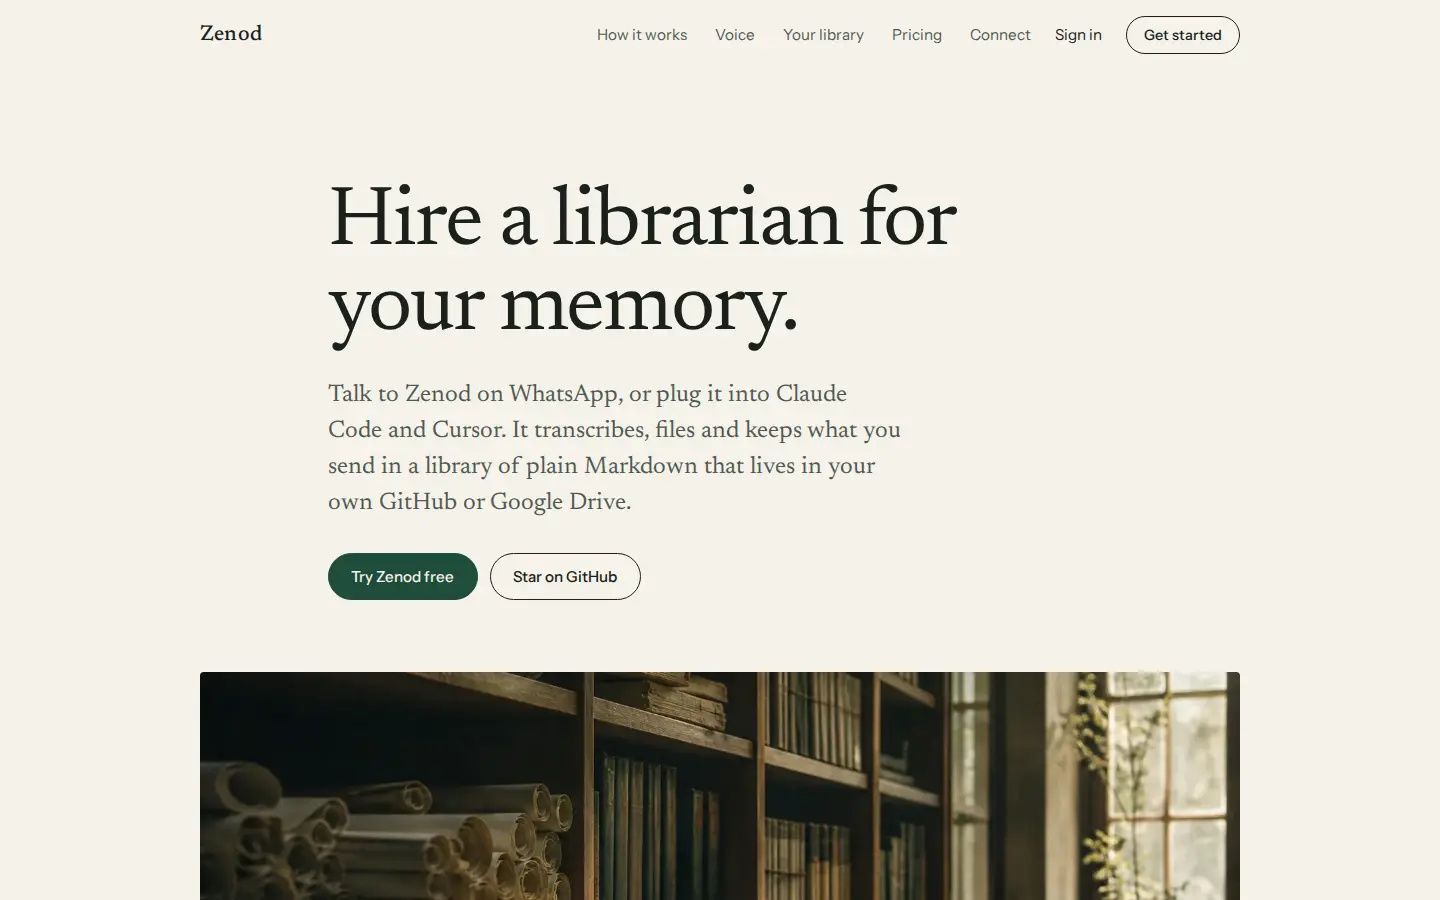
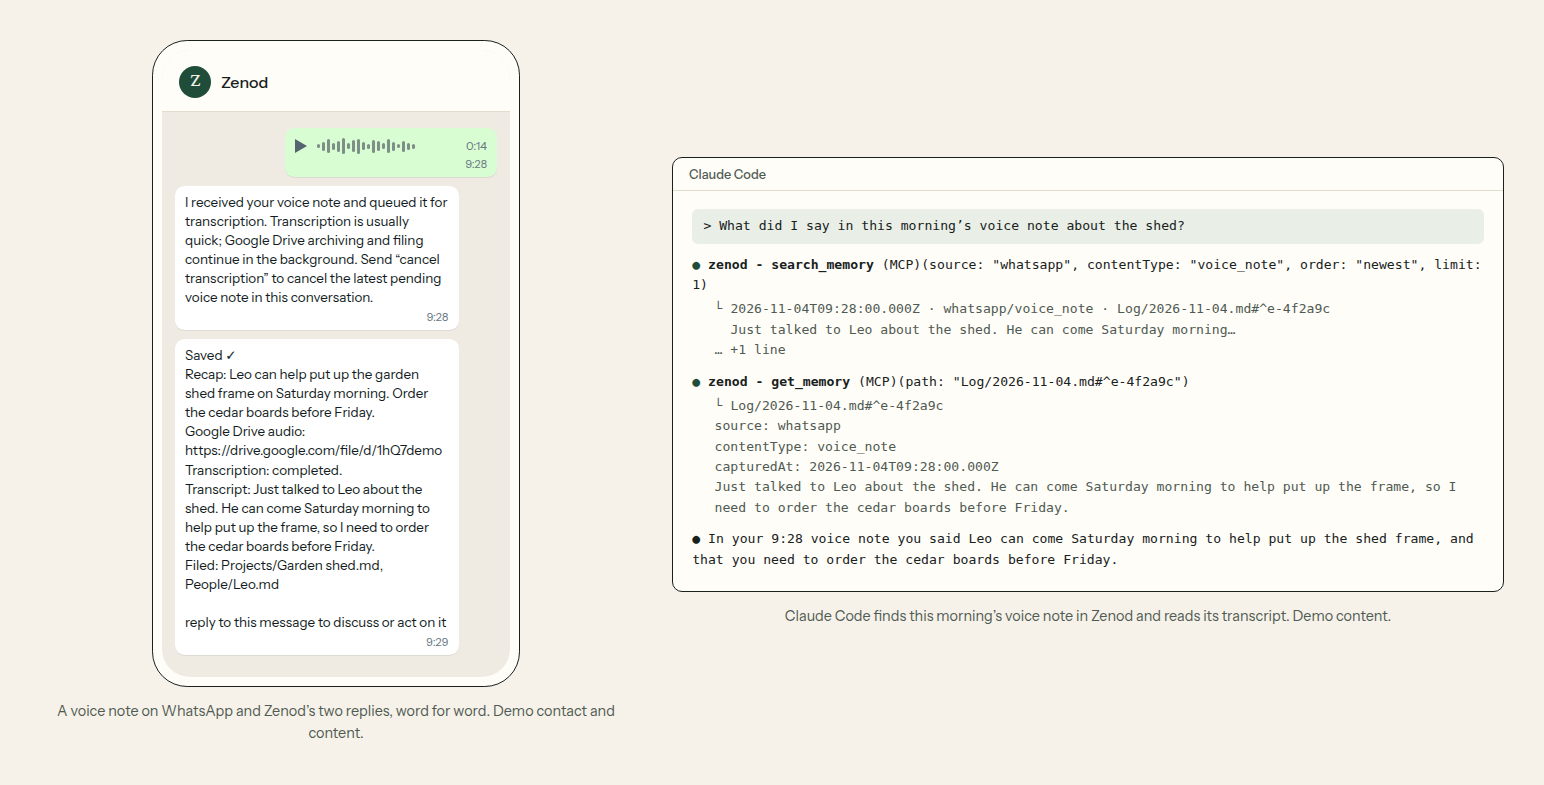
ZAL-A6: iteration 2 live (43d63a1), evidence and card; A6 back to review
Product visuals on zenod.dev per Jordi's relaunch: WhatsApp voice note with
Zenod's real replies, Claude Code retrieving a transcript and saving a
learning, real console screens. PR #1495, health sha verified 11:25Z.

Run: run_107e6293-52ad-4b72-96cd-cc43723ab6e1

diff --git a/docs/EPIC-ZENOD-ALPHA-LAUNCH.md b/docs/EPIC-ZENOD-ALPHA-LAUNCH.md
@@ -41,14 +41,14 @@ Goal sentence: A real user signs up, uses Zenod over WhatsApp, and is metered an
 Status: active
 Phase: A0 re-check done and proposed done 2026-10-25 (worker run_f010b4a9); A1–A5 not started
 Last verified: 2026-10-25
-Last attempted: 2026-11-04 ZAL-A6 Paper landing shipped by worker run_c49da4e3 (#1494, a69a78d live 10:12Z) and in review ; 2026-11-03 roll-up from children — [EPIC-7](EPIC-7-REAL-USER-TEST.md) (active): everything agents can build for the 5-tester test is live (checkout, caps, tester codes, wording, tester-watch, rotated keys); the rehearsal waits on one Google sign-in (E7-A15) and the leaked-key rolls on one key page (E7-A14). [EPIC-6](EPIC-6-HEALTH-DASHBOARD.md) (active): S1 inventory in review since 2026-10-25; S2–S6 wait for Jordi to accept S1. A0 re-check proposed done 2026-10-25; A1 voice test and A5 live billing not started
+Last attempted: 2026-11-04 ZAL-A6 iteration 2 (product visuals) shipped by worker run_107e6293 (#1495, 43d63a1 live 11:25Z) and in review; before, iteration 1 Paper landing (#1494, a69a78d) ; 2026-11-03 roll-up from children — [EPIC-7](EPIC-7-REAL-USER-TEST.md) (active): everything agents can build for the 5-tester test is live (checkout, caps, tester codes, wording, tester-watch, rotated keys); the rehearsal waits on one Google sign-in (E7-A15) and the leaked-key rolls on one key page (E7-A14). [EPIC-6](EPIC-6-HEALTH-DASHBOARD.md) (active): S1 inventory in review since 2026-10-25; S2–S6 wait for Jordi to accept S1. A0 re-check proposed done 2026-10-25; A1 voice test and A5 live billing not started
 Result: production is up (health ok on 5aa4fe4, 2026-11-03) and ready for testers apart from the rehearsal; no tester invited yet; live billing never performed
 Production 2026-10-25: `cloud.zenod.dev/api/health` status ok, sha `ae3e77a3b794a44f78b8f64323f67da28bd4d983`; Dokploy `zenod-mt` on `ghcr.io/zenod-ai/zenod:sha-ae3e77a`; production-readiness still lists 5 advisory failures (Stripe webhook/portal/live billing journey, backup restore, Drive acceptance), all A5 or later. Public Google registration and paid checkout opened 2026-09-16 on `83c2752` ([receipt](evidence/public-opening-2026-09-16/README.md)); live billing and Drive acceptance never performed.
 Finding 2026-10-25 (resolved): the `deploy` job's Dokploy 404 was not a moved app id: `dokploy.polyqu.com` was closed on 2026-10-22 (Dokploy is Tailscale-only), so GitHub runners cannot reach it. The VPS1 deploy poller (infra-vps EPIC-10-A9) already rolls `zenod-mt` after `publish`; #1435 turns `deploy` into a health-sha check and the two `DOKPLOY_*` GitHub secrets were removed. `scripts/deploy-fleet.sh` is manual-only and refuses on Dokploy v0.30 (`project.all` no longer returns images); not needed for the push path.
 Waiting on: Jordi, through EPIC-7: E7-A15 (one sign-in) and E7-A14 (key page); EPIC-6 waits on his S1 review
-Waiting on (ZAL-A6-A1): answered 2026-11-04 ; Jordi relaunched A6 2026-11-04 asking for clean product visuals (settings, WhatsApp voice note and reply, Claude Code retrieving a transcript and writing a learning) ; worker run_107e6293 building iteration 2 on zenod.dev
+Waiting on (ZAL-A6-A1): answered 2026-11-04 ; Jordi relaunched A6 2026-11-04 asking for clean product visuals ; iteration 2 live on https://zenod.dev/ at 43d63a1 ([evidence](evidence/zal-a6-2026-11-04.md)), A6 in review awaiting Jordi's verdict on its card
 Next action: EPIC-7 T7 rehearsal once Jordi signs in, then T8 go/no-go and the five invites
-Verified at: 2026-11-04 zenod.dev 200 with the new Paper page, A6 card fields checked against the gate ; 2026-11-03 child Current States read; live health 5aa4fe4
+Verified at: 2026-11-04T11:25Z health sha 43d63a1, zenod.dev serves the product visuals, A6 card fields checked against the gate ; 2026-11-03 child Current States read; live health 5aa4fe4
 
 ## Waiting on
 
@@ -64,7 +64,7 @@ Verified at: 2026-11-04 zenod.dev 200 with the new Paper page, A6 card fields ch
 | A3 | Ticket worker | - | ZAL-A3 · Free-pass code with a capped allowance | moved | - | - | - | Moved to [EPIC-7](EPIC-7-REAL-USER-TEST.md) T4 on 2026-10-27. | - | 2026-10-27 | see EPIC-7 |
 | A4 | Recruiter (zenod-social) | - | ZAL-A4 · Recruit test users | moved | - | - | - | First wave of 5 moved to [EPIC-7](EPIC-7-REAL-USER-TEST.md) T9 on 2026-10-27; later waves toward DOD-1 come after it. | - | 2026-10-27 | see EPIC-7 |
 | A5 | Operator | Jordi + worker | ZAL-A5 · Stripe live: business verification + one live €9 payment | draft | A0 | - | - | Stripe business profile verified; one live €9 payment end to end (DOD-2) on price `price_1U8jip80yG7aohEW6tZnFgZq`. | Price approved 2026-08-26 (history) | 2026-10-24 | Ask Jordi for the business verification when next. |
-| A6 | Ticket worker | run_107e6293-52ad-4b72-96cd-cc43723ab6e1 — claimed 2026-11-04T10:25Z, lease until 2026-11-04T12:25Z | ZAL-A6 · Cleaner landing: parallel beta of zenod.dev | active (iteration 2, relaunched by Jordi 2026-11-04: great first step, but I want screenshots about the ux for settings etc, and examples showing whatsapp contact sending voicenote and zenod response to it, and screenshot of claude code making a call to zenod to retrieve a voicenote transcript, and code making a zenod call to write a new learning - S…) | - | [#1494](https://github.com/zenod-ai/zenod/pull/1494) merged a69a78d (beta 74977f7, docs only) | `main` | Beta landing on a temporary tailnet link beside the live `apps/site` (untouched): fewer columns, larger lighter diagrams, generated imagery, human copy; 3 directions + low-hanging-fruit list; Jordi picks before `apps/site` changes. | 2026-11-04: Paper landing live on https://zenod.dev/ at a69a78d (health sha verified 10:12Z); [evidence](evidence/zal-a6-2026-11-04.md), [card](cards/A6.md). Before: 2026-11-03 directions A/B/C at http://vps3.taild81fbb.ts.net:8741/ ; [diagrams](landing-beta/DIAGRAMS.md); [list](landing-beta/LOW-HANGING-FRUIT.md) | 2026-11-04 | followups: start Restyle /pricing and /connect in Paper — they keep the dark v5 look, so the site reads as two styles; confirm: yes — Jordi judges the live page against his brief himself |
+| A6 | Ticket worker | run_107e6293 (it.2; it.1 run_c49da4e3) | ZAL-A6 · Cleaner landing: parallel beta of zenod.dev | review | - | [#1495](https://github.com/zenod-ai/zenod/pull/1495) merged 43d63a1 (it.1 [#1494](https://github.com/zenod-ai/zenod/pull/1494) a69a78d; beta 74977f7, docs only) | `main` | Beta landing on a temporary tailnet link beside the live `apps/site` (untouched): fewer columns, larger lighter diagrams, generated imagery, human copy; 3 directions + low-hanging-fruit list; Jordi picks before `apps/site` changes. | 2026-11-04 it.2: product visuals live on https://zenod.dev/ at 43d63a1 (health sha verified 11:25Z): WhatsApp voice note with the real replies, Claude Code retrieving a transcript and saving a learning, real console screens; [evidence](evidence/zal-a6-2026-11-04.md), [card](cards/A6.md). Before: it.1 Paper landing a69a78d; 2026-11-03 directions A/B/C at http://vps3.taild81fbb.ts.net:8741/ | 2026-11-04 | followups: start Restyle /pricing and /connect in Paper — they keep the dark v5 look, so the site reads as two styles; confirm: yes — Jordi judges the live product pictures against his relaunch brief himself |
 
 Superseded from the history board: ZAL-4 #1061 (production gate) → A0/A5; ZAL-5 #1062 (stranger journey) → A0 + DOD-2; ZAL-6 #1063 (invitation draft) → A4 via zenod-social.
 

diff --git a/docs/evidence/zal-a6-2026-11-04.md b/docs/evidence/zal-a6-2026-11-04.md
@@ -35,3 +35,39 @@ No claim that questions can be asked over WhatsApp (root L-6: chat only captures
 ## Follow-ups
 - Start: restyle `/pricing` and `/connect` in Paper so the site reads as one (they keep the dark v5 look today).
 - Dropped: `og.jpg` still the old dark art (nice-to-have; nothing blocked).
+
+## Iteration 2 — product visuals (2026-11-04, run `run_107e6293-52ad-4b72-96cd-cc43723ab6e1`)
+
+Jordi's relaunch, verbatim: "great first step, but I want screenshots about the ux for settings etc, and examples showing whatsapp contact sending voicenote and zenod response to it, and screenshot of claude code making a call to zenod to retrieve a voicenote transcript, and code making a zenod call to write a new learning - SHOW THE PRODUCT SIMPLE mockup visuals - CLEAN"
+
+### What shipped
+- **WhatsApp voice note** (`#voice`, replaces the voice diagram): a contact sends a 0:14 voice note; Zenod's acknowledgement and its later filing receipt, word for word.
+- **Code agent writes a learning** (new `#desk` section "And from your editor."): Claude Code calls `store_memory`, gets the queued-job text, then `get_task_result` returns the receipt.
+- **Claude Code retrieves a voice-note transcript** (`#retrieval`, replaces the ask diagram): `search_memory` (source whatsapp, contentType voice_note, newest) then `get_memory` on the evidence ref.
+- **Settings and console UX** (new `#console` section "One page for your settings."): real screenshots of the hosted console (`apps/web`) with demo API data: Overview (included usage, recent saves from a WhatsApp voice note and an AI assistant), the WhatsApp channel card (connected, verified sender), the Google Drive vault card (ready). A phone-width crop of the overview is served below 760 px.
+- Demo content only (Maya, Leo, a garden shed, an orders table). No real user data.
+
+### True to production
+| Visual | Source |
+|---|---|
+| Voice-note acknowledgement text | `packages/server/src/phylaxPortedRuntime.ts` (queued voice job reply) |
+| Receipt lines `Saved ✓ / Recap / Google Drive audio / Transcription: completed. / Transcript / Filed` + invitation line | `terminalCaptureReceipt` in `phylaxChannels.ts`; `phylaxCaptureReceipt.ts` |
+| `search_memory`, `get_memory` text shapes | `packages/server/src/mcp.ts` (entry line `capturedAt · source/contentType · evidenceRef`, entry text `source/contentType/capturedAt`) |
+| `store_memory` queued text, `get_task_result` receipt (`Saved.` / `evidence:` / `pages:`) | `enqueuedResponse` and `formatStoreResult` in `mcp.ts`; `storeReceiptHeadline` in `recentSaves.ts` |
+| Console screens | the real `apps/web` build, rendered with mocked `/api/*` responses (labels such as "WhatsApp voice", "AI assistant", "Saved." follow `recentSaves.ts`) |
+
+`apps/site/paper-landing.test.tsx` now pins the acknowledgement string, the invitation line, the queued-job text and the four tool names to the server source. Chat behaviour untouched (root L-6); nothing added across the agent_team seam (root L-7).
+
+### Integration and deploy
+- PR [#1495](https://github.com/zenod-ai/zenod/pull/1495), `ci` green (10m29s), self-merged as merge commit `43d63a126f38bc7bd1c667a9e8ef0e798b19690f`.
+- publish.yml run [41818096942](https://github.com/zenod-ai/zenod/actions/runs/41818096942): ci, publish, deploy all success.
+- Verified 2026-11-04T11:25:54Z: `cloud.zenod.dev/api/health` status ok, sha `43d63a126f38bc7bd1c667a9e8ef0e798b19690f`; zenod.dev serves `/site/assets/main-DRQ1BElX.js`, which contains the new sections and the four console images; `https://zenod.dev/connect` 200; no horizontal overflow at 1440 and 390 px on production.
+- Local checks before PR: vitest 31/31, eslint, `tsc -b`, `vite build`.
+
+### Screenshots (production, 2026-11-04 ~11:27Z)
+- Desktop: [WhatsApp voice note](zal-a6-2026-11-04/it2-desktop-whatsapp.png), [saving a learning](zal-a6-2026-11-04/it2-desktop-learning.png), [retrieving a transcript](zal-a6-2026-11-04/it2-desktop-transcript.png), [console](zal-a6-2026-11-04/it2-desktop-console.webp), [full page](zal-a6-2026-11-04/it2-desktop-full.webp)
+- Mobile 390 px: [WhatsApp voice note](zal-a6-2026-11-04/it2-mobile-whatsapp.png), [console](zal-a6-2026-11-04/it2-mobile-console.webp), [full page](zal-a6-2026-11-04/it2-mobile-full.webp)
+
+### Follow-ups
+- Start (carried over): restyle `/pricing` and `/connect` in Paper so the site reads as one.
+- Dropped: the desktop overview crop shows the top edge of a third recent save; cosmetic, nothing blocked.

diff --git a/docs/cards/A6.md b/docs/cards/A6.md
@@ -1,19 +1,19 @@
 ---
 row: A6
 spine: EPIC-ZENOD-ALPHA-LAUNCH.md
-title: The zenod.dev home page was rebuilt in the Paper style to tell Zenod's story the way you asked.
-goal: Make the home page calm and clear, leading with WhatsApp and code agents, voice notes and owning your memory.
+title: Clean product pictures were added to zenod.dev showing WhatsApp voice notes, Claude Code calls and the settings console.
+goal: Show the real product on the home page with simple, clean pictures instead of only diagrams.
 delivered:
-  - ✓ [zenod.dev](https://zenod.dev/) is live in the Paper style on phone and desktop.
-  - ✓ The page goes from WhatsApp and code agents to ingestion, digestion and retrieval.
-  - ✓ Voice notes get their own chapter, and owning and mining your library closes the story.
-  - ✓ Prices, checkout and the connect page work as before.
+  - ✓ [zenod.dev](https://zenod.dev/) shows a WhatsApp voice note and Zenod's two real replies, word for word.
+  - ✓ Claude Code is shown finding a voice note transcript and saving a new learning in Zenod.
+  - ✓ Real console screens show WhatsApp, the Google Drive library and monthly usage, with demo data.
+  - ✓ It reads cleanly on phone and desktop, and prices, checkout and the connect page work as before.
 evidence: [Open zenod.dev](https://zenod.dev/)
 screenshot: A6.png
-name: the new home page
+name: product pictures on the home page
 after: Next the team can restyle the pricing and connect pages to match, if you want that.
 next: start: restyle the pricing and connect pages in the Paper style
-confirm: yes — Jordi can open it and judge the page himself
+confirm: yes — Jordi can open the page and judge the pictures himself
 ---
 
-Card for ZAL-A6, written by the ticket worker (run_c49da4e3) on 2026-11-04. Evidence: [zal-a6-2026-11-04](../evidence/zal-a6-2026-11-04.md).
+Card for ZAL-A6 iteration 2, written by the ticket worker (run_107e6293) on 2026-11-04. Evidence: [zal-a6-2026-11-04](../evidence/zal-a6-2026-11-04.md#iteration-2--product-visuals-2026-11-04-run-run_107e6293-52ad-4b72-96cd-cc43723ab6e1).
